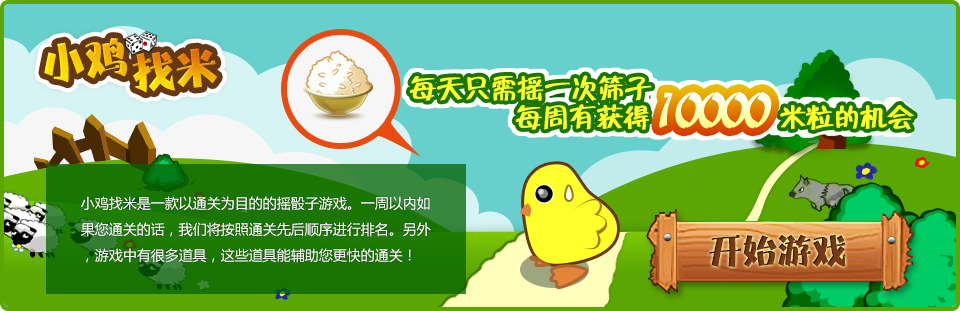
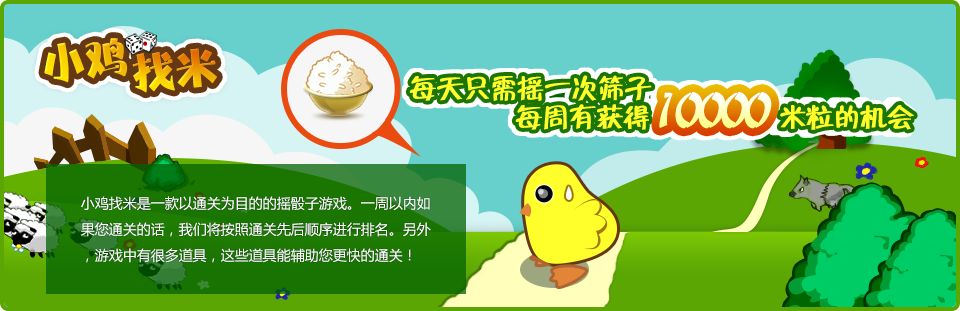
regarding issue #167

Changed region(s): [[0.6562, 0.6656, 0.9688, 0.955], [0.8125, 0.492, 0.8438, 0.5498]]

diff --git a/web/css/common.css b/web/css/common.css
@@ -24,7 +24,24 @@ div#rule{
     width: 100%;
     margin-bottom: 5px;
 }
+.game_start{
+	position:relative;
+}
 
+.game_start a{
+	position:absolute;
+	right:5px;
+	_right:9px;
+	top:2px;
+	width:100%;
+	height:311px;
+	display:inline-block;
+	font-size:0;
+	background:url(../images/game_start_btn.jpg) no-repeat scroll 650px 200px transparent;
+}
+.game_start a:hover{
+	background:url(../images/game_start_btn_h.jpg) no-repeat scroll 650px 200px transparent;
+}
 /* ++++++++++++++++++++++++++++++++++++++++++++
 　■ポイント
 ++++++++++++++++++++++++++++++++++++++++++++ */
